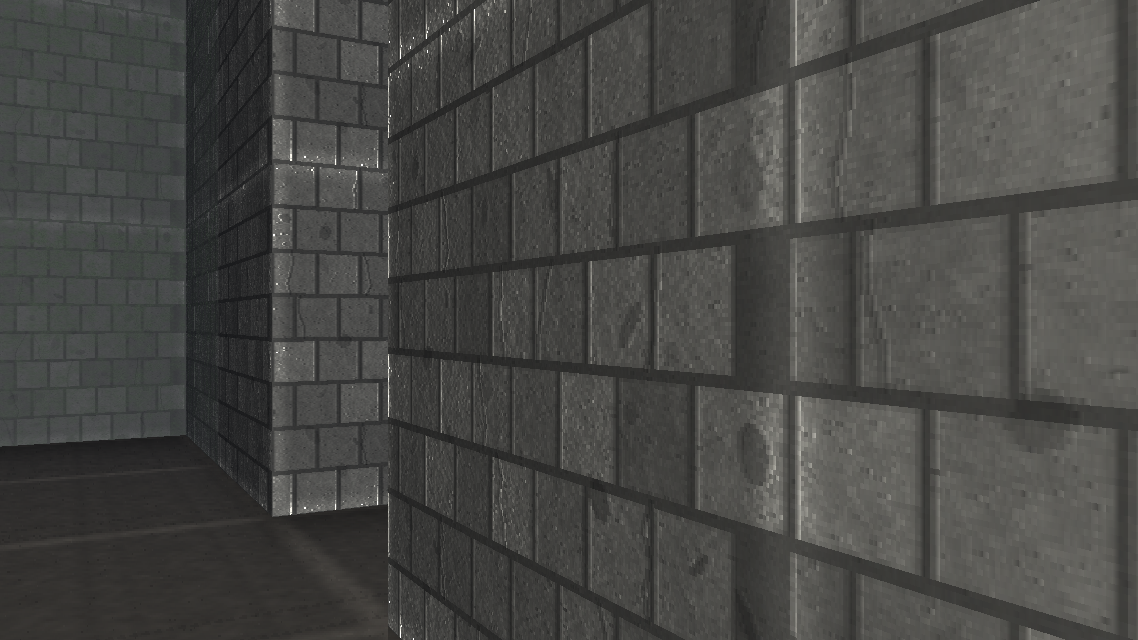
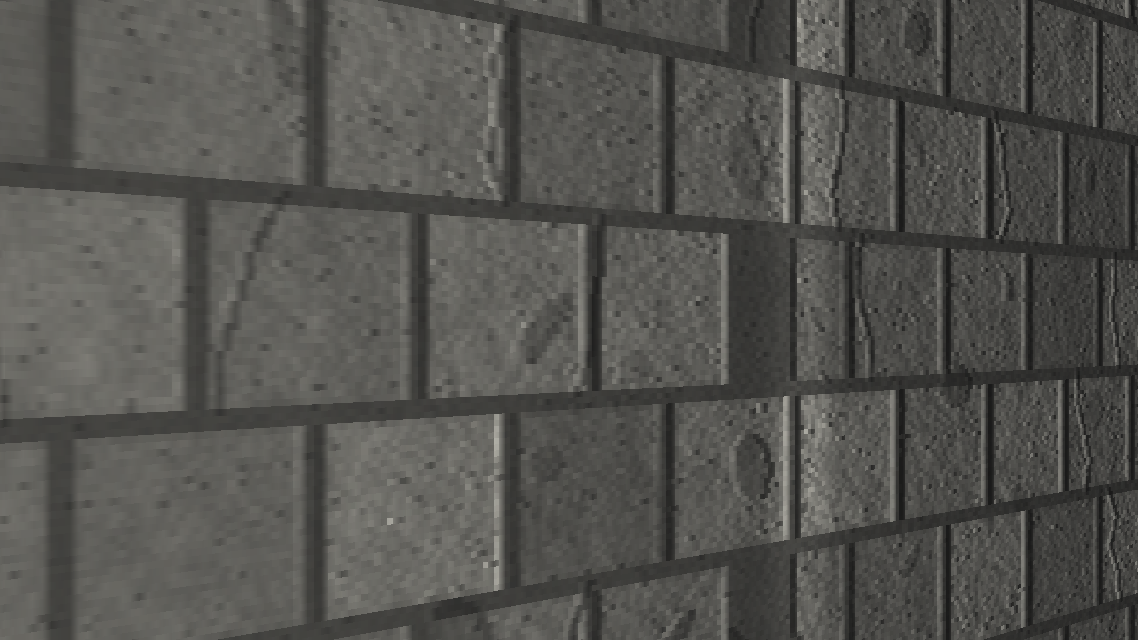
Test + belge: tuş atama ekranı akışı (yakalama→atama→kayıt) sınanıyor, v1.1.0 sürüm notu eklendi

diff --git a/tools/smoke-test.js b/tools/smoke-test.js
@@ -211,6 +211,23 @@ console.log('--- tuş atama (rebind) turu ---');
   MV.Desktop.apply(re);
   assert(In.map['forward'][0] === 'KeyI', 'kaydedilip geri yüklendi: ' + In.keyLabel(In.map['forward'][0]));
   assert(In.actionFor('KeyI') === 'forward', 'yeni tuş eyleme bağlandı (' + In.actionFor('KeyI') + ')');
+  /* ekran üzerinden akış: yakalama → atama → kayıt (G.onKey yönlendirmesi) */
+  UI.openKeys();
+  let captured = null;
+  G.bindingCapture = (code) => {
+    captured = code; G.bindingCapture = null;
+    In.setBinding('crouch', code);
+    UI.saveKeys();
+  };
+  G.onKey({ code: 'KeyZ', preventDefault() { }, repeat: false });
+  assert(captured === 'KeyZ', 'tuş ekranı yakalaması G.onKey ile iletildi');
+  assert(In.map['crouch'][0] === 'KeyZ', 'yakalanan tuş eyleme atandı (crouch → Z)');
+  const savedKeys = MV.Desktop.settings.read().keymap;
+  assert(!!(savedKeys && savedKeys['crouch'] && savedKeys['crouch'][0] === 'KeyZ'),
+    'ekran ataması settings.json içine yazıldı');
+  UI.closeModal();
+  In.resetOne('crouch'); UI.saveKeys();
+
   /* kayıtlı atamayı temizle → varsayılana dönüş */
   const cleared = MV.Desktop.settings.read();
   cleared.keymap = {};

diff --git a/docs/SURUM-1.1.0.md b/docs/SURUM-1.1.0.md
@@ -1,0 +1,65 @@
+# LABİRENT PROTOKOLÜ — v1.1.0 (oynanmaya hazır)
+
+**İndir:** <https://github.com/arreasonn-jpg/MathVerse/releases/tag/v1.1.0>
+
+Bu sürüm, geri bildirimin üç maddesi için hazırlandı:
+**(1) grafikler, (2) kontroller profesyonel seviyeye**, **(3) yaşam alanında canavar olmasın.**
+
+| Platform | Dosya | Not |
+|---|---|---|
+| **Windows** | `LabirentProtokolu-Kurulum-1.1.0-x64.exe` | NSIS kurulumu (Türkçe), masaüstü + Başlat menüsü kısayolu |
+| **Windows** | `LabirentProtokolu-Tasinabilir-1.1.0-x64.exe` | Kurulumsuz, USB'den çalışır |
+| **Windows** | `LabirentProtokolu-Klasor-1.1.0-x64.zip` | Klasöre çıkar, `Labirent Protokolu.exe` çift tıkla — *kurulum yok, uyarı en az* |
+| macOS | `LabirentProtokolu-1.1.0-arm64.dmg` / `-x64.dmg` | Apple Silicon + Intel |
+| Linux | `LabirentProtokolu-1.1.0-x86_64.AppImage` / `-amd64.deb` | `chmod +x` sonra çift tıkla, ya da `dpkg -i` |
+
+> Bu proje **kod imzasız** üretiliyor (kod imzalama sertifikası yok). Windows ilk çalıştırmada
+> "Windows kişisel bilgisayarınızı korudu" diyebilir → **Ek bilgi → Yine de yükle**.
+> Tek seferlik kaldırma: `Unblock-File "$env:USERPROFILE\Downloads\LabirentProtokolu-Kurulum-1.1.0-x64.exe"`
+> Doğrulama: aynı sürümün `SHA256SUMS-win.txt` dosyasıyla `Get-FileHash -Algorithm SHA256 <dosya>` karşılaştır.
+
+---
+
+## 1) Grafikler — profesyonel seviye
+
+- **256 px doku** (eski 128 px yerine) + **normal harita ve parlama haritası**; taş bloklarda ince kum/çakıl tanesi, gözenek ve çatlak.
+- **Yakın duvarlarda gerçek ışıklandırma:** normal haritalı N·L, yüzeye dik bakışta fener parlaması ve spekülar; uzak duvarlarda hızlı yol.
+- **Duvar dibi temas gölgesi (AO)** — zeminle duvar birleşimi artık "havada durmuyor".
+- **Ufuk sisine bağlanan uzak duvarlar** — labirentin derinliği kaybolmuyor, sisle kaynaşıyor.
+- **GPU'da gökyüzü katmanı:** gradyan + **güneş/ay diski ve halesi**, yıldızlar, **kayan bulut katmanları**.
+- **Sprite'lar:** çift doğrusal ölçekleme (alfa kenarları dahil, tırtıklanma yok), griever/kulübe/kovan/Kutu 2× çözünürlükte yeniden çizildi.
+- **Çim ve zemin** dokuları yamalı/ince taneli — döşeme ızgarası belli olmuyor.
+- **Gece + fener** yeniden dengeli: karanlık gerçekten karanlık, fenerin ışık havuzu dramatik ama patlamış değil.
+
+Bütün kareler: `tools/out/*.png` (18 sahne) ve README görselleri `docs/`.
+
+## 2) Kontroller — profesyonel seviye
+
+- **Fare:** `dengeli / hassas / yumuşak` eğrileri, **kare hızından bağımsız yumuşatma**, doğru **açısal dikey bakış** (rad → piksel), ters Y seçeneği.
+- **Ok/klavye + fare** aynı anda; girdi kipini oyun kendi algılar.
+- **Koşu** ve **eğilme** için `basılı tut` ya da `aç / kapa` seçimi.
+- **Kamera sallanması** şiddeti (0 = kapalı), ekran sarsıntısı, **nişan yardımı**.
+- **Oyun kolu:** ölü bölge, tepki eğrisi, hassasiyet, titreşim; LB/RB araç, LT eğil, sağ çubuk bakış.
+- **TUŞ ATAMALARI ekranı** (Duraklat → TUŞ ATAMALARI): 23 eylem için **DEĞİŞTİR / SİL / VARSAYILANA DÖN**; çakışan tuş otomatik eski eylemden alınır; değişiklik anında `settings.json`'a yazılır.
+- **Otomatik iç ölçekleme:** kare süresini ölçüp ölçeği (0.62–1.0) kendi ayarlar.
+
+## 3) Yaşam alanı — Kayran'da canavar YOK
+
+- Kamp, Kutu ve baraka çevresinde **hiçbir yaratık bulunmaz**; Grievers ve Böcek Bıçakları **yalnızca labirent içinde** avlanır (filmdeki gibi).
+- Güvenli bölgeye giren yaratık anında dışarı atılır; oyuncu Kayran'dayken yaratıklar saldırganlaşmaz.
+- Doğrulandı: `tools/glade-test.js` ve `npm run smoke-test` — 500+ yaratık-kare kontrolünde **ihlal yok**
+  (en yakın yaratık 11.7 → güvenli sınır 10.5).
+
+---
+
+## Testler
+
+```
+npm run verify
+```
+
+kapsamı: `maze-test` (labirent üretimi/erişim), **`glade-test` (yaşam alanı güvenliği)**,
+`desktop-test` (paketleme + ayar şeması), `smoke-test` (tarayıcı) + `smoke-test --desktop`
+(uzun simülasyon, başarımlar, oyun kolu, tuş atama turu, performans ölçümü), `render-real` (18 görsel sahne).
+
+Bu sürümün paketleri **commit `07c9aef`** ile üretildi; CI'da üç platform da yeşil geçti.
